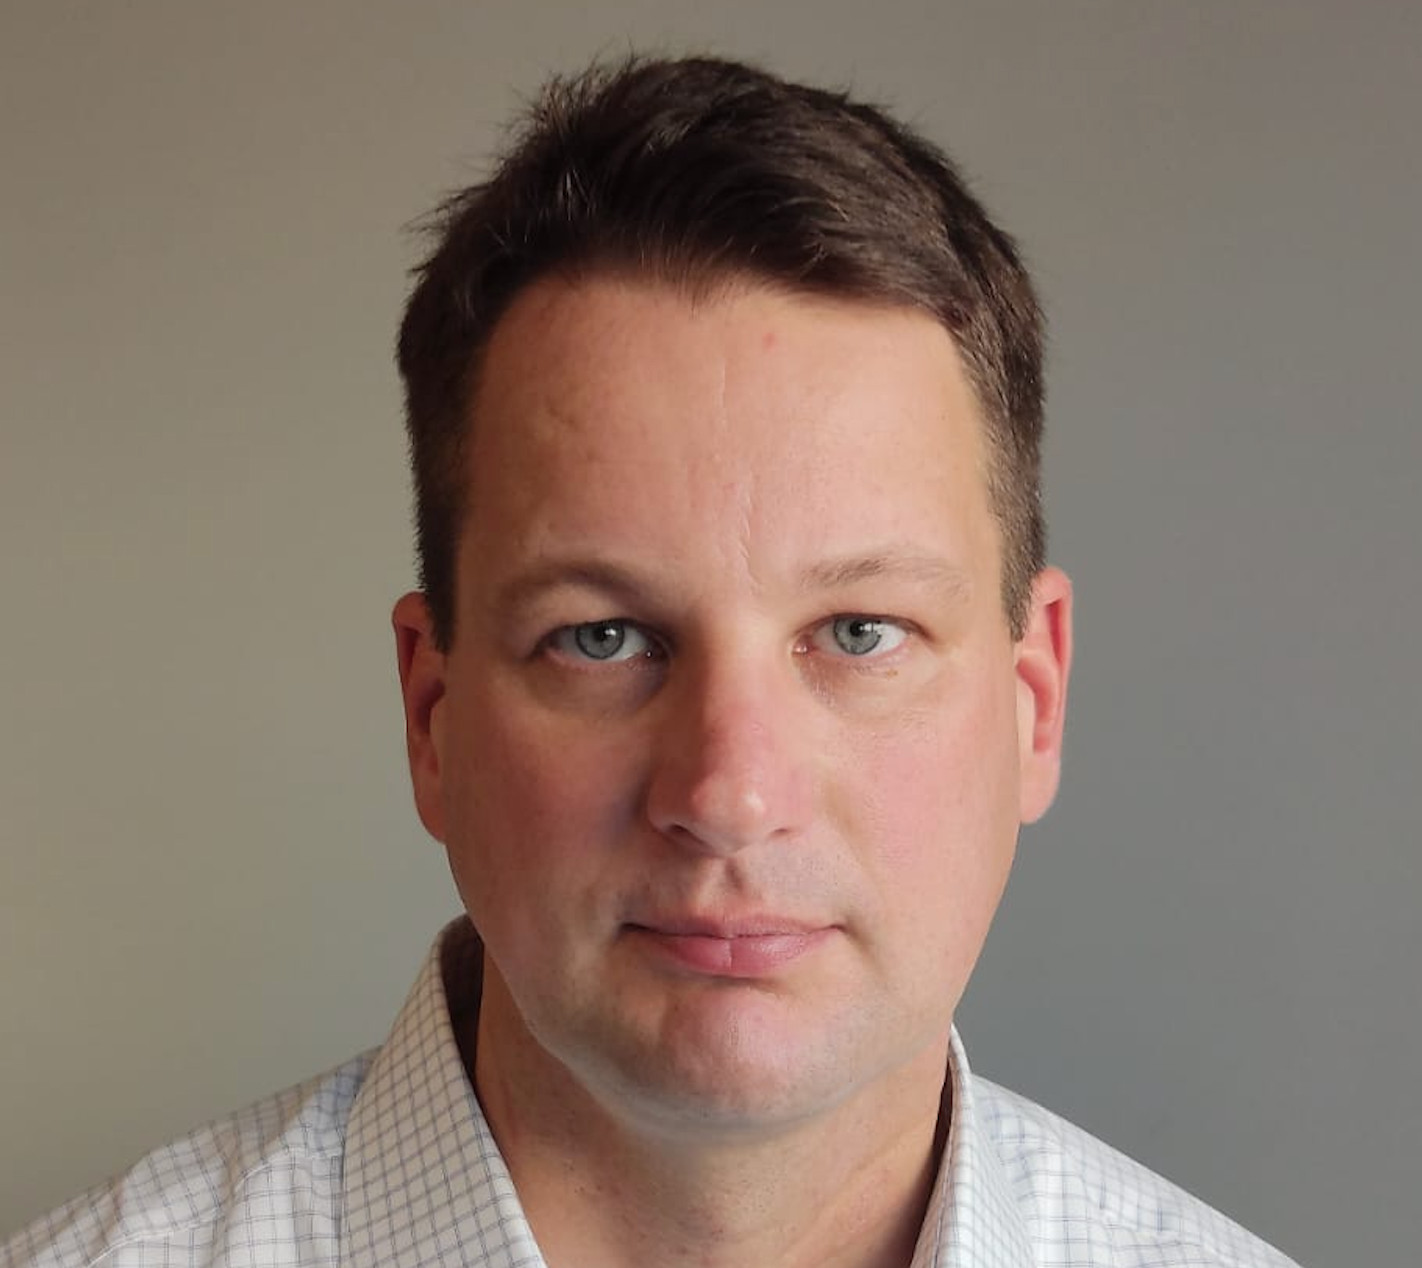
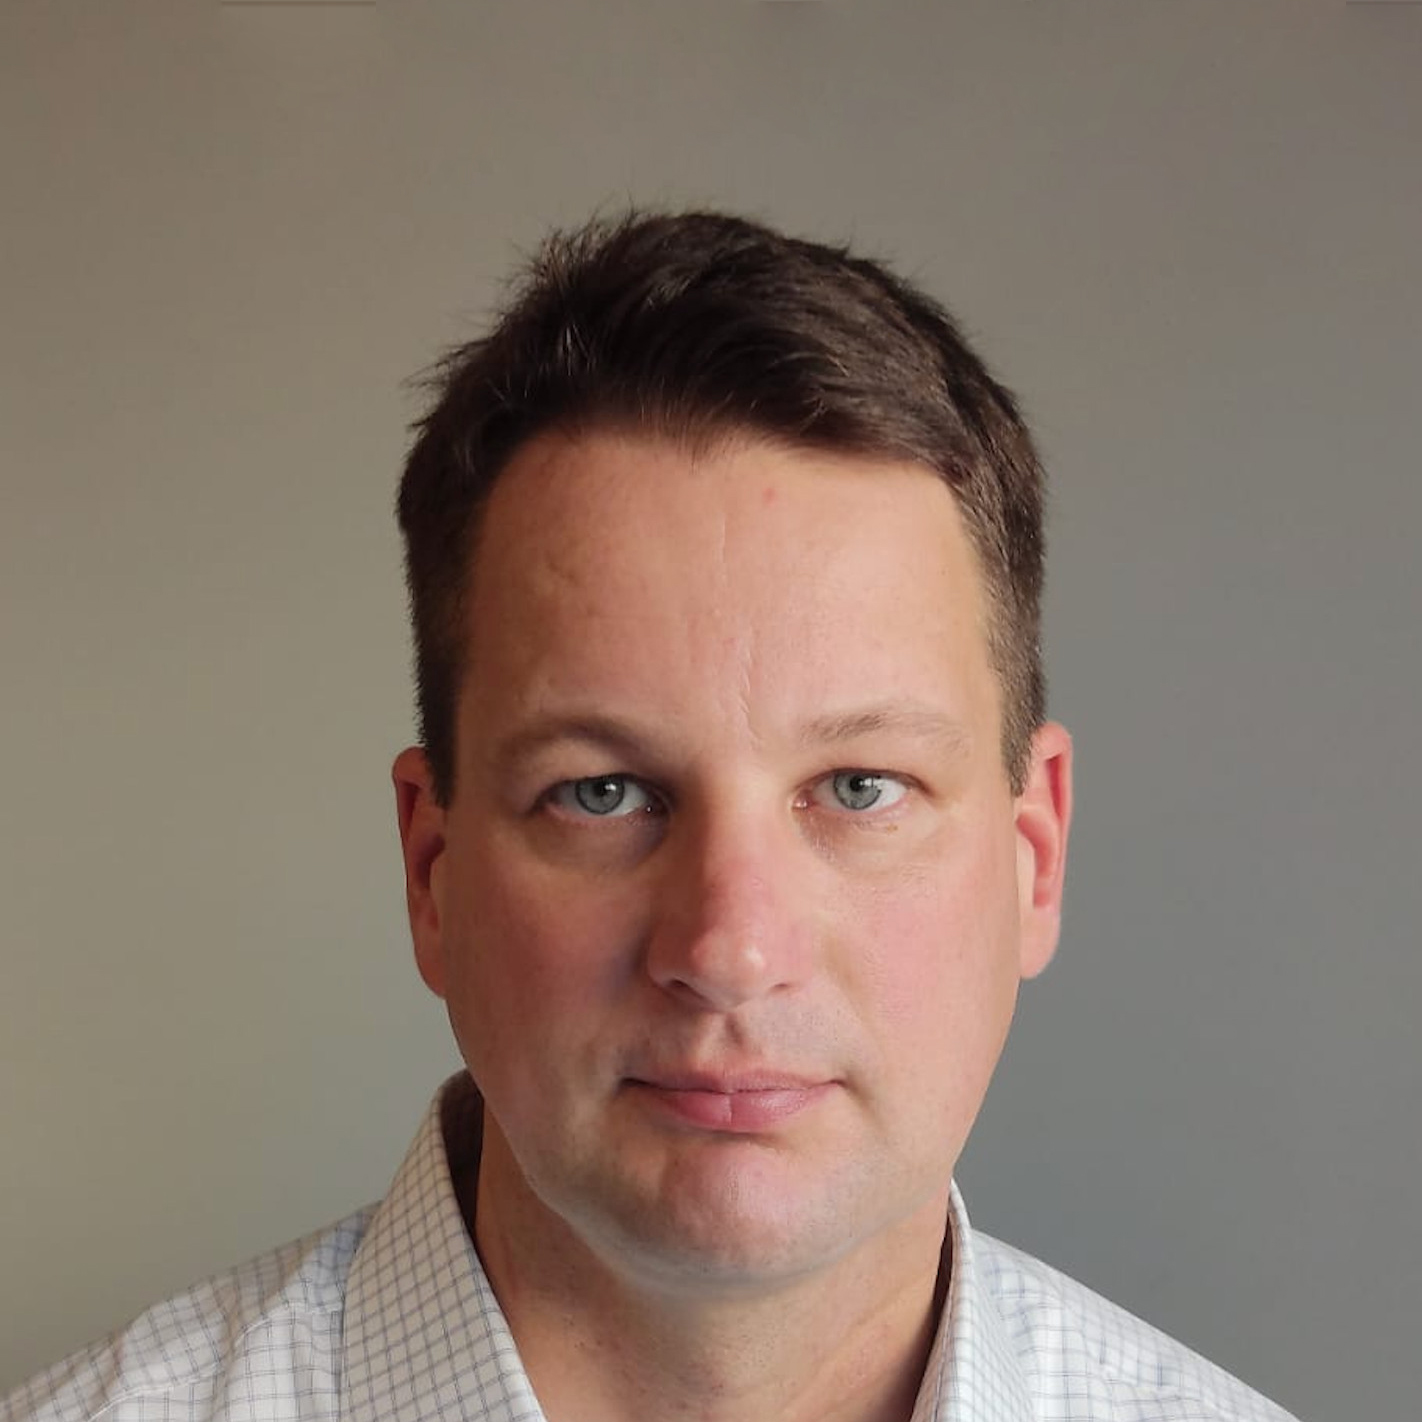
Add files via upload
changed Bruno's photo and fixed animation

diff --git a/Team.html b/Team.html
@@ -64,7 +64,7 @@
 
       <div class="col-12 team_cards">
         <div class="team_card">
-          <img class="animate__animated animate__flipInY animate__delay-1s" src="img/team/team-ALokhmotov.svg" alt="Anton Lokhmotov - CEO">
+          <img class="animate__animated animate__flipInY" src="img/team/team-ALokhmotov.svg" alt="Anton Lokhmotov - CEO">
           <div class="animate__animated animate__lightSpeedInRight animate__delay-1s team_text">
             <div class="team_link">
               <p>Dr Anton Lokhmotov</p>
@@ -79,8 +79,8 @@
         </div>
 
         <div class="team_card">
-          <img class="animate__animated animate__flipInY animate__delay-2s" src="img/team/team-LGordon.svg" alt="Dr Leo Gordon - Chief Architect">
-          <div class="animate__animated animate__lightSpeedInRight animate__delay-2s team_text">
+          <img class="animate__animated animate__flipInY" src="img/team/team-LGordon.svg" alt="Dr Leo Gordon - Chief Architect">
+          <div class="animate__animated animate__lightSpeedInRight animate__delay-1s team_text">
             <div class="team_link">
               <p>Dr Leo Gordon</p>
               <a href="https://www.linkedin.com/in/leo-gordon-cambridge/"><img src="img/team/icons8-linkedin.svg" alt=""></a>
@@ -94,8 +94,8 @@
         </div>
 
         <div class="team_card">
-          <img class="animate__animated animate__flipInY animate__delay-3s" src="img/team/team-GavinSimpson.svg" alt="Gavin Simpson - Principal R&D Engineer">
-          <div class="animate__animated animate__lightSpeedInRight animate__delay-3s team_text">
+          <img class="animate__animated animate__flipInY" src="img/team/team-GavinSimpson.svg" alt="Gavin Simpson - Principal R&D Engineer">
+          <div class="animate__animated animate__lightSpeedInRight animate__delay-1s team_text">
             <div class="team_link">
               <p>Gavin Simpson</p>
               <a href="https://www.linkedin.com/in/gavinssimpson/"><img src="img/team/icons8-linkedin.svg" alt=""></a>
@@ -109,8 +109,8 @@
         </div>
 
         <div class="team_card">
-          <img class="animate__animated animate__flipInY animate__delay-2s" src="img/team/team-Natalie.jpeg" alt="Natalie Durzynski - Director, Business Dev.">
-          <div class="animate__animated animate__lightSpeedInRight animate__delay-2s team_text">
+          <img class="animate__animated animate__flipInY" src="img/team/team-Natalie.jpeg" alt="Natalie Durzynski - Director, Business Dev.">
+          <div class="animate__animated animate__lightSpeedInRight animate__delay-1s team_text">
             <div class="team_link">
               <p>Natalie Durzynski</p>
               <a href="https://www.linkedin.com/in/nataliedurzynski"><img src="img/team/icons8-linkedin.svg" alt=""></a>
@@ -124,8 +124,8 @@
         </div>
 
         <div class="team_card">
-          <img class="animate__animated animate__flipInY animate__delay-3s" src="img/team/team-Bruno.jpg" alt="Bruno Jansen - Director, Operations">
-          <div class="animate__animated animate__lightSpeedInRight animate__delay-3s team_text">
+          <img class="animate__animated animate__flipInY" src="img/team/team-Bruno.jpg" alt="Bruno Jansen - Director, Operations">
+          <div class="animate__animated animate__lightSpeedInRight animate__delay-1s team_text">
             <div class="team_link">
               <p>Bruno Jansen</p>
               <a href="https://www.linkedin.com/in/bruno-jansen-uk/"><img src="img/team/icons8-linkedin.svg" alt=""></a>
